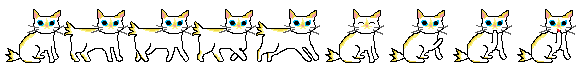
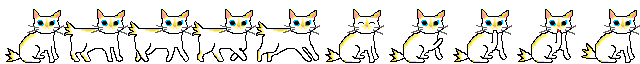
rabinho

diff --git a/src/game/scenes/ShopScene.ts b/src/game/scenes/ShopScene.ts
@@ -85,6 +85,7 @@ export class ShopScene extends Phaser.Scene {
   private invPlayerImg!: Phaser.GameObjects.Image
   private blinkTimer?: Phaser.Time.TimerEvent
   private lickTimers: Phaser.Time.TimerEvent[] = []
+  private wagTimers: Phaser.Time.TimerEvent[] = []
   private invObjs: Showable[] = []
   private invRail!: Phaser.GameObjects.Container
   private invCardBgs:     Phaser.GameObjects.Image[] = []
@@ -853,8 +854,11 @@ export class ShopScene extends Phaser.Scene {
     const delay = Phaser.Math.Between(2000, 5000)
     this.blinkTimer = this.time.delayedCall(delay, () => {
       if (!this.invPlayerImg.visible) return
-      if (Math.random() < 0.35) {
+      const roll = Math.random()
+      if (roll < 0.35) {
         this.playLickAnimation()
+      } else if (roll < 0.60) {
+        this.playWagAnimation()
       } else {
         this.invPlayerImg.setFrame(5)
         this.time.delayedCall(500, () => {
@@ -880,11 +884,28 @@ export class ShopScene extends Phaser.Scene {
     })
   }
 
+  private playWagAnimation() {
+    const wagFrames = [9, 0, 9, 0, 9, 0]
+    const wagDelays = [280, 200, 280, 200, 280, 0]
+    let accumulated = 0
+    wagFrames.forEach((frame, i) => {
+      const t = this.time.delayedCall(accumulated, () => {
+        if (!this.invPlayerImg.visible) return
+        this.invPlayerImg.setFrame(frame)
+        if (i === wagFrames.length - 1) this.scheduleNextBlink()
+      })
+      this.wagTimers.push(t)
+      accumulated += wagDelays[i]
+    })
+  }
+
   private stopBlinkLoop() {
     this.blinkTimer?.remove()
     this.blinkTimer = undefined
     this.lickTimers.forEach(t => t.remove())
     this.lickTimers = []
+    this.wagTimers.forEach(t => t.remove())
+    this.wagTimers = []
     this.invPlayerImg?.setFrame(0)
   }
 